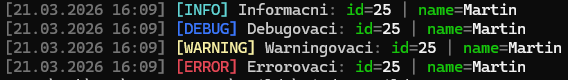
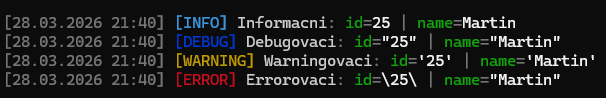
Added option to highlight value in AppendValue

diff --git a/PlajaLogger.h b/PlajaLogger.h
@@ -56,6 +56,32 @@ private:
 public:
     class PlajaLoggerQuery
     {
+    private:
+        PlajaLogLevel _logLevel;
+        std::string _message;
+        char _appendSeparator;
+        char _valueHighlighter;
+        std::vector<std::pair<std::string, std::string>> _appends;
+
+        PLAJA_LOGGER_API PlajaLoggerQuery(PlajaLogLevel logLevel, std::string message, char valueHighlighter, char appendSeparator);
+
+        PLAJA_LOGGER_API static const char* GetLogLevelText(PlajaLogLevel logLevel);
+        PLAJA_LOGGER_API static PlajaColor GetLogLevelColor(PlajaLogLevel logLevel);
+
+        PLAJA_LOGGER_API static void ApplyColor(PlajaColor color);
+        PLAJA_LOGGER_API static void PrintColored(PlajaColor color, const std::string& text, bool canUseColors);
+
+        /**
+         * Extracts the value highlighter character to be used in the log query.
+         *
+         * If the provided highlighterOverride character is not null (`'\0'`), it will be used;
+         * otherwise, the default value highlighter for the query will be returned.
+         *
+         * @param highlighterOverride The highlighter character to override the default, or `'\0'` to use the default value highlighter.
+         * @return The character used as the value highlighter for the query.
+         */
+        [[nodiscard]] PLAJA_LOGGER_API char ExtractHighlighter(char highlighterOverride) const;
+
     public:
         /**
          * Appends a key-value pair to the log query.
@@ -65,33 +91,30 @@ public:
          *
          * @param key The key associated with the appended value.
          * @param value The value to append.
+         * @param highlighterOverride Character added in front and after the value. e.g. vH = '"' -> key="myValue"
          * @return A reference to the current query to allow method chaining.
          */
-        template<typename TValue>
-        PlajaLoggerQuery& AppendValue(const std::string& key, const TValue& value)
+        template <typename TValue>
+        [[nodiscard]] PlajaLoggerQuery& AppendValue(const std::string& key, const TValue& value, char highlighterOverride = '\0')
         {
             std::ostringstream oss;
-            oss << value;
+
+            char realHighlighter = ExtractHighlighter(highlighterOverride);
+
+            if (realHighlighter != '\0')
+            {
+                oss << realHighlighter << value << realHighlighter;
+            }
+            else
+            {
+                oss << value;
+            }
 
             _appends.emplace_back(key, oss.str());
             return *this;
         }
 
         PLAJA_LOGGER_API void Write();
-
-    private:
-        PlajaLogLevel _logLevel;
-        std::string _message;
-        char _appendSeparator;
-        std::vector<std::pair<std::string, std::string>> _appends;
-
-        PLAJA_LOGGER_API PlajaLoggerQuery(PlajaLogLevel logLevel, std::string message, char appendSeparator);
-
-        [[nodiscard]] PLAJA_LOGGER_API static const char* GetLogLevelText(PlajaLogLevel logLevel);
-        [[nodiscard]] PLAJA_LOGGER_API static PlajaColor GetLogLevelColor(PlajaLogLevel logLevel);
-
-        PLAJA_LOGGER_API static void ApplyColor(PlajaColor color);
-        PLAJA_LOGGER_API static void PrintColored(PlajaColor color, const std::string& text, bool canUseColors);
 
         friend class PlajaLogger;
     };
@@ -103,7 +126,7 @@ public:
      * @param appendSeparator The separator used between appended key-value pairs.
      * @return A log query that can be extended and later written using Write().
      */
-    PLAJA_LOGGER_API static PlajaLoggerQuery Debug(const std::string& message, char appendSeparator = '|');
+    PLAJA_LOGGER_API static PlajaLoggerQuery Debug(std::string message, char valueHighlighter = '\0', char appendSeparator = '|');
 
     /**
      * Creates a info-level log query.
@@ -112,7 +135,7 @@ public:
      * @param appendSeparator The separator used between appended key-value pairs.
      * @return A log query that can be extended and later written using Write().
      */
-    PLAJA_LOGGER_API static PlajaLoggerQuery Info(const std::string& message, char appendSeparator = '|');
+    PLAJA_LOGGER_API static PlajaLoggerQuery Info(std::string message, char valueHighlighter = '\0', char appendSeparator = '|');
 
     /**
      * Creates a warning-level log query.
@@ -121,7 +144,7 @@ public:
      * @param appendSeparator The separator used between appended key-value pairs.
      * @return A log query that can be extended and later written using Write().
      */
-    PLAJA_LOGGER_API static PlajaLoggerQuery Warning(const std::string& message, char appendSeparator = '|');
+    PLAJA_LOGGER_API static PlajaLoggerQuery Warning(std::string message, char valueHighlighter = '\0', char appendSeparator = '|');
 
     /**
      * Creates a error-level log query.
@@ -130,7 +153,7 @@ public:
      * @param appendSeparator The separator used between appended key-value pairs.
      * @return A log query that can be extended and later written using Write().
      */
-    PLAJA_LOGGER_API static PlajaLoggerQuery Error(const std::string& message, char appendSeparator = '|');
+    PLAJA_LOGGER_API static PlajaLoggerQuery Error(std::string message, char valueHighlighter = '\0', char appendSeparator = '|');
 };
 
 #endif

diff --git a/PlajaLogger.cpp b/PlajaLogger.cpp
@@ -39,10 +39,11 @@ namespace
 
 // PlajaLoggerQuery
 
-PlajaLogger::PlajaLoggerQuery::PlajaLoggerQuery(PlajaLogLevel logLevel, std::string message, char appendSeparator)
+PlajaLogger::PlajaLoggerQuery::PlajaLoggerQuery(PlajaLogLevel logLevel, std::string message, const char valueHighlighter, const char appendSeparator)
 {
     _logLevel = logLevel;
     _message = std::move(message);
+    _valueHighlighter = valueHighlighter;
     _appendSeparator = appendSeparator;
 }
 
@@ -165,6 +166,11 @@ void PlajaLogger::PlajaLoggerQuery::PrintColored(PlajaColor color, const std::st
     std::cout.flush();
 }
 
+char PlajaLogger::PlajaLoggerQuery::ExtractHighlighter(char highlighterOverride) const
+{
+    return highlighterOverride != '\0' ? highlighterOverride : _valueHighlighter;
+}
+
 void PlajaLogger::PlajaLoggerQuery::Write()
 {
     const bool canUseColors = GetCachedCanUseConsoleColors();
@@ -221,22 +227,22 @@ void PlajaLogger::PlajaLoggerQuery::Write()
 
 // PlajaLogger
 
-PlajaLogger::PlajaLoggerQuery PlajaLogger::Debug(const std::string& message, char appendSeparator)
+PlajaLogger::PlajaLoggerQuery PlajaLogger::Debug(std::string message, char valueHighlighter, char appendSeparator)
 {
-    return { PlajaLogLevel::Debug, message, appendSeparator };
+    return { PlajaLogLevel::Debug, std::move(message), valueHighlighter, appendSeparator };
 }
 
-PlajaLogger::PlajaLoggerQuery PlajaLogger::Info(const std::string& message, char appendSeparator)
+PlajaLogger::PlajaLoggerQuery PlajaLogger::Info(std::string message, char valueHighlighter, char appendSeparator)
 {
-    return { PlajaLogLevel::Info, message, appendSeparator };
+    return { PlajaLogLevel::Info, std::move(message), valueHighlighter, appendSeparator };
 }
 
-PlajaLogger::PlajaLoggerQuery PlajaLogger::Warning(const std::string& message, char appendSeparator)
+PlajaLogger::PlajaLoggerQuery PlajaLogger::Warning(std::string message, char valueHighlighter, char appendSeparator)
 {
-    return { PlajaLogLevel::Warning, message, appendSeparator };
+    return { PlajaLogLevel::Warning, std::move(message), valueHighlighter, appendSeparator };
 }
 
-PlajaLogger::PlajaLoggerQuery PlajaLogger::Error(const std::string& message, char appendSeparator)
+PlajaLogger::PlajaLoggerQuery PlajaLogger::Error(std::string message, char valueHighlighter, char appendSeparator)
 {
-    return { PlajaLogLevel::Error, message, appendSeparator };
+    return { PlajaLogLevel::Error, std::move(message), valueHighlighter, appendSeparator };
 }

diff --git a/README.md b/README.md
@@ -163,19 +163,19 @@ int main()
     .AppendValue("name", "Martin")
     .Write();
 
-    PlajaLogger::Debug("Debugovaci")
+    PlajaLogger::Debug("Debugovaci", '"')
     .AppendValue("id", 25)
     .AppendValue("name", "Martin")
     .Write();
 
-    PlajaLogger::Warning("Warningovaci")
+    PlajaLogger::Warning("Warningovaci", '\'')
     .AppendValue("id", 25)
     .AppendValue("name", "Martin")
     .Write();
 
-    PlajaLogger::Error("Errorovaci")
+    PlajaLogger::Error("Errorovaci", '\\')
     .AppendValue("id", 25)
-    .AppendValue("name", "Martin")
+    .AppendValue("name", "Martin", '"')
     .Write();
 
     return 0;
@@ -183,7 +183,7 @@ int main()
 ```
 
 ## Example Output
-<img src="./docs/logger_colors_example.png" alt="Logger - logging colors example"/>
+<img src="docs/logger_colors_example.png" alt="Logger - logging colors example"/>
 
 ## ⚠ Notes
 
